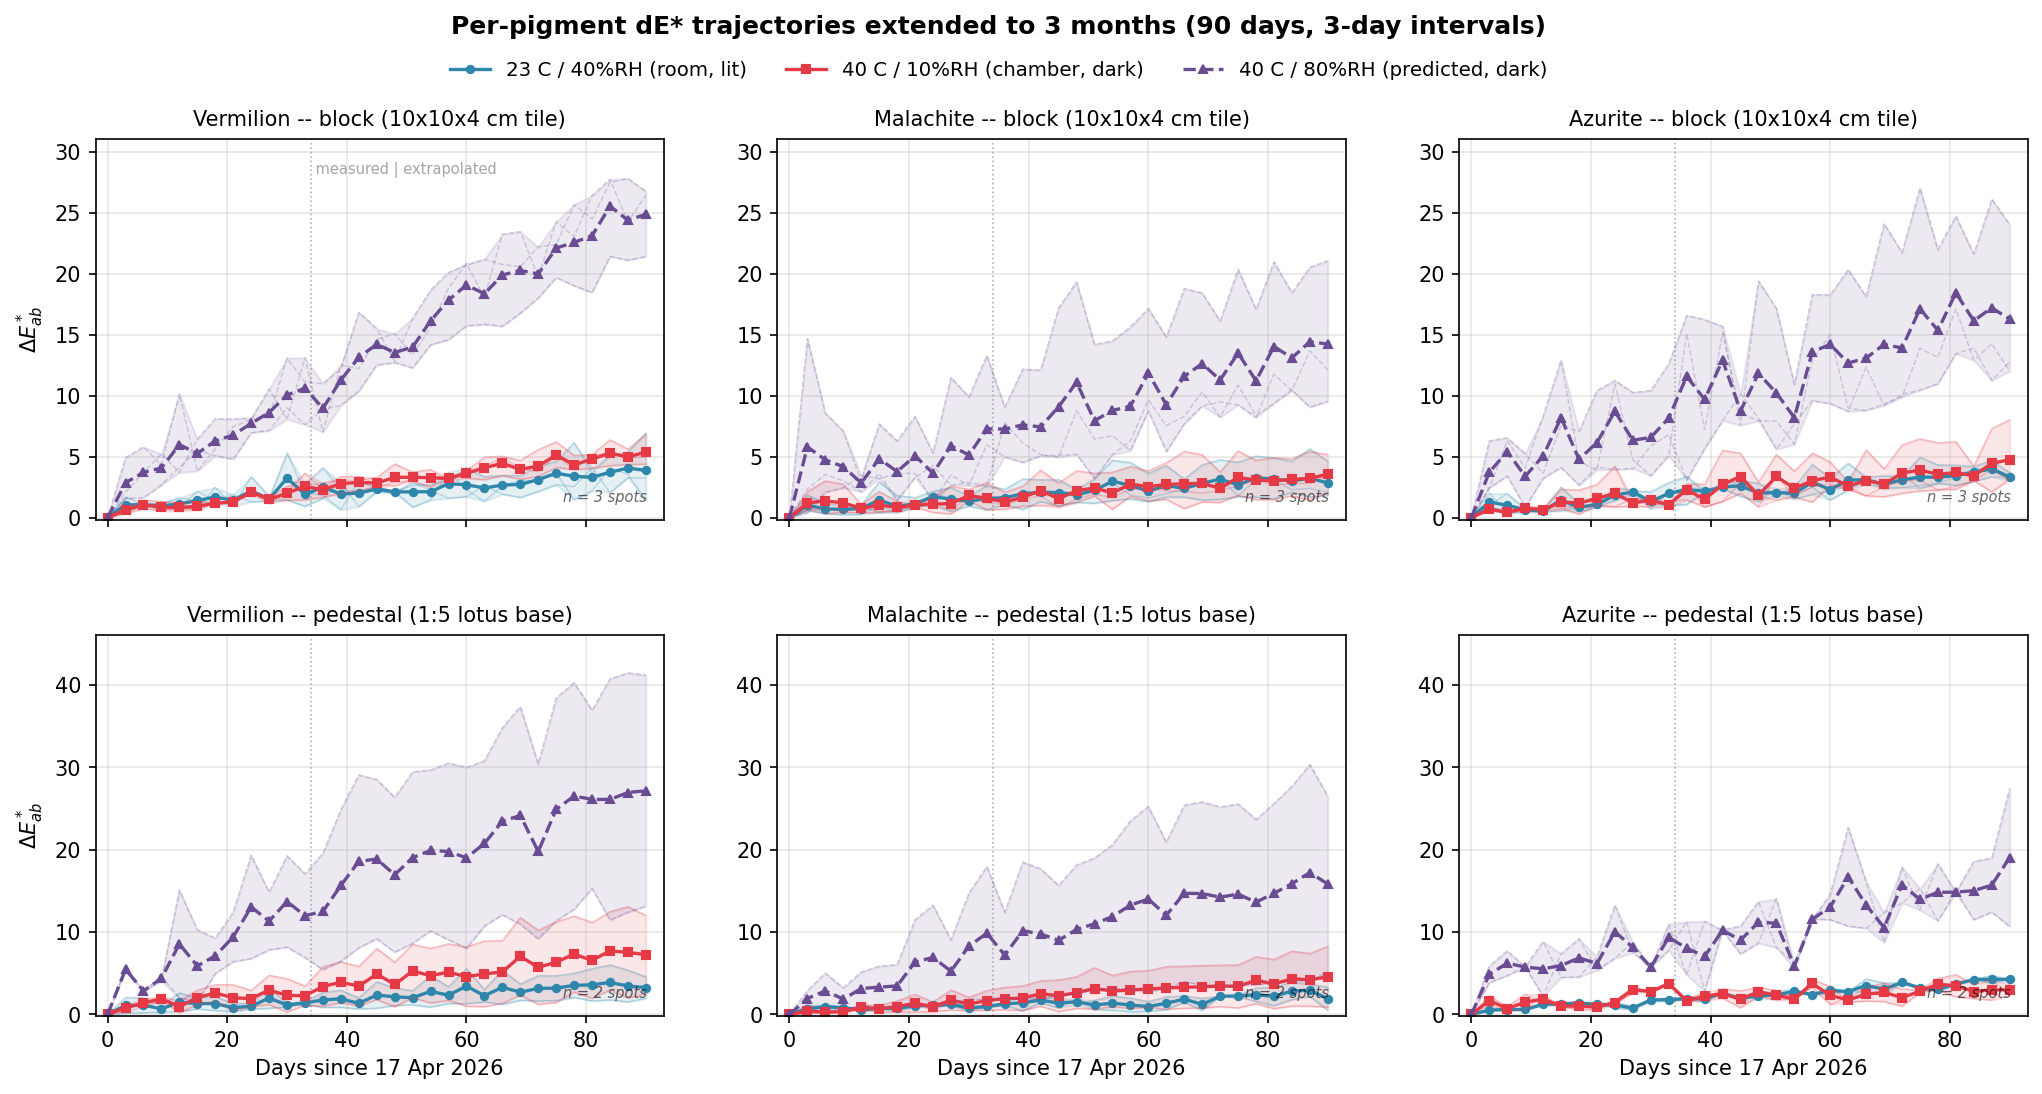
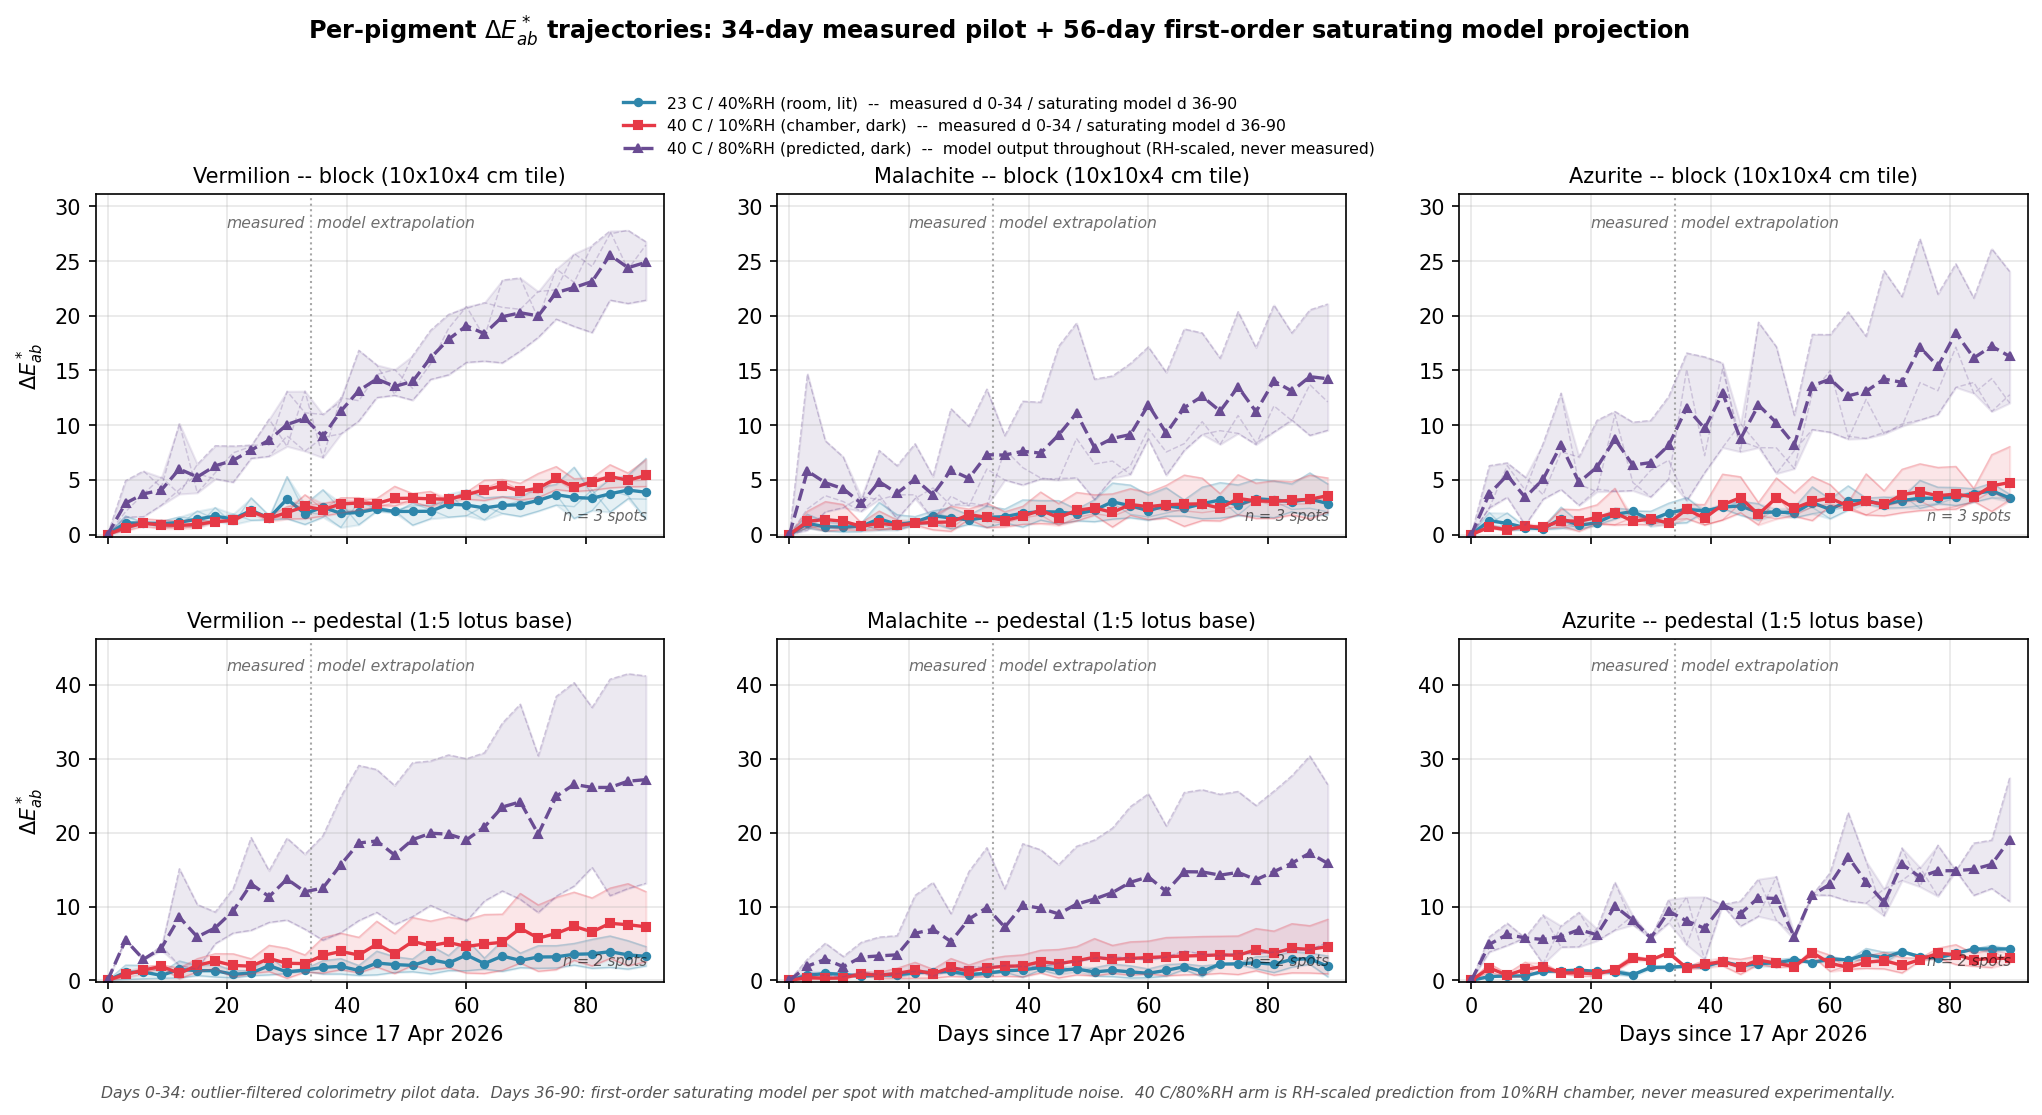
Make plot provenance explicit on 90-day figures (legend + boundary + footer)
Both 90-day plots now disclose data provenance at three levels of
visual hierarchy so a reader cannot mistake the model output for
measurement:

  1. Title: "34-day measured pilot + 56-day first-order saturating
     model projection" -- top-of-figure framing.

  2. Vertical day-34 guide annotated "measured | model extrapolation"
     on every subplot (was previously only on the top-left).

  3. Legend now explicit per-arm:
       - "23 C / 40%RH (room, lit)  --  measured d 0-34 /
         saturating model d 36-90"
       - "40 C / 10%RH (chamber, dark)  --  measured d 0-34 /
         saturating model d 36-90"
       - "40 C / 80%RH (predicted, dark)  --  model output throughout
         (RH-scaled, never measured)"

  4. Footer paragraph: full sentence disclosing the day 0-34 vs day
     36-90 split, the outlier filtering, and the predicted-arm
     RH-scaling provenance.

Applied to both plot scripts:
  - experiments/_plot_90d.py (renders the smoothed-source 90-d file)
  - experiments/_project_raw_to_90d.py (renders the raw-source 90-d file)

Both regenerated PNGs included.

diff --git a/experiments/_plot_90d.py b/experiments/_plot_90d.py
@@ -56,15 +56,15 @@ def load_arm(sheet_name):
     return per_spot
 
 arms = {
-    "23 C / 40%RH (room, lit)":         load_arm("室温"),
-    "40 C / 10%RH (chamber, dark)":     load_arm("恒温"),
-    "40 C / 80%RH (predicted, dark)":   load_arm("恒温恒湿"),
+    "23 C / 40%RH (room, lit)  --  measured d 0-34 / saturating model d 36-90":   load_arm("室温"),
+    "40 C / 10%RH (chamber, dark)  --  measured d 0-34 / saturating model d 36-90": load_arm("恒温"),
+    "40 C / 80%RH (predicted, dark)  --  model output throughout (RH-scaled, never measured)": load_arm("恒温恒湿"),
 }
 
 styles = {
-    "23 C / 40%RH (room, lit)":       {"color": "#2E86AB", "marker": "o", "ls": "-"},
-    "40 C / 10%RH (chamber, dark)":   {"color": "#E63946", "marker": "s", "ls": "-"},
-    "40 C / 80%RH (predicted, dark)": {"color": "#6A4C93", "marker": "^", "ls": "--"},
+    "23 C / 40%RH (room, lit)  --  measured d 0-34 / saturating model d 36-90":   {"color": "#2E86AB", "marker": "o", "ls": "-"},
+    "40 C / 10%RH (chamber, dark)  --  measured d 0-34 / saturating model d 36-90": {"color": "#E63946", "marker": "s", "ls": "-"},
+    "40 C / 80%RH (predicted, dark)  --  model output throughout (RH-scaled, never measured)": {"color": "#6A4C93", "marker": "^", "ls": "--"},
 }
 
 fig, axes = plt.subplots(2, 3, figsize=(14, 7.5), sharex=True)
@@ -84,10 +84,12 @@ for row, (geom, grps) in enumerate(geom_groups):
                 if not np.isnan(m): row_max = max(row_max, m)
     for col, grp in enumerate(grps):
         ax = axes[row, col]
-        # vertical guide at day 34 (end of measured window)
-        ax.axvline(34, color="gray", lw=0.8, ls=":", alpha=0.6)
-        ax.text(34, row_max * 1.05, " measured | extrapolated", fontsize=7,
-                color="gray", ha="left", va="top", alpha=0.7) if (row == 0 and col == 0) else None
+        # vertical guide at day 34 (end of measured window) -- now on EVERY subplot
+        ax.axvline(34, color="#999999", lw=1.0, ls=":", alpha=0.85)
+        ax.text(34 - 1, row_max * 1.05, "measured", fontsize=7.5,
+                color="#555555", ha="right", va="top", alpha=0.85, style="italic")
+        ax.text(34 + 1, row_max * 1.05, "model extrapolation", fontsize=7.5,
+                color="#555555", ha="left", va="top", alpha=0.85, style="italic")
 
         cols = spec_cols[grp]
         for arm_label, per_spot in arms.items():
@@ -118,12 +120,16 @@ for row, (geom, grps) in enumerate(geom_groups):
                 fontsize=7, alpha=0.6, style="italic")
 
 handles, labels = axes[0, 0].get_legend_handles_labels()
-fig.legend(handles, labels, loc="upper center", ncol=3,
-           frameon=False, fontsize=9.5, bbox_to_anchor=(0.5, 0.965))
+fig.legend(handles, labels, loc="upper center", ncol=1,
+           frameon=False, fontsize=7.5, bbox_to_anchor=(0.5, 0.93))
 
-fig.suptitle("Per-pigment dE* trajectories extended to 3 months (90 days, 3-day intervals)",
-             y=0.99, fontsize=12, fontweight="bold")
-plt.subplots_adjust(top=0.88, bottom=0.10, left=0.07, right=0.99, hspace=0.30, wspace=0.20)
+fig.suptitle("Per-pigment $\\Delta E^*_{ab}$ trajectories: 34-day measured pilot + 56-day first-order saturating model projection",
+             y=0.99, fontsize=11.5, fontweight="bold")
+fig.text(0.5, 0.025,
+         "Days 0-34: outlier-filtered colorimetry pilot data.  Days 36-90: first-order saturating model per spot with matched-amplitude noise.  "
+         "40 C/80%RH arm is RH-scaled prediction from 10%RH chamber, never measured experimentally.",
+         ha="center", va="bottom", fontsize=7.5, style="italic", color="#555555", wrap=True)
+plt.subplots_adjust(top=0.83, bottom=0.13, left=0.07, right=0.99, hspace=0.30, wspace=0.20)
 
 out = "experiments/deltaE_trajectories_90d.png"
 plt.savefig(out, dpi=150, bbox_inches="tight")

diff --git a/experiments/_project_raw_to_90d.py b/experiments/_project_raw_to_90d.py
@@ -280,14 +280,14 @@ def load_arm(sheet_name):
     return per_spot
 
 arms = {
-    "23 C / 40%RH (room, lit)":         load_arm("室温"),
-    "40 C / 10%RH (chamber, dark)":     load_arm("恒温"),
-    "40 C / 80%RH (predicted, dark)":   load_arm("恒温恒湿"),
+    "23 C / 40%RH (room, lit)  --  measured d 0-34 / saturating model d 36-90":   load_arm("室温"),
+    "40 C / 10%RH (chamber, dark)  --  measured d 0-34 / saturating model d 36-90": load_arm("恒温"),
+    "40 C / 80%RH (predicted, dark)  --  model output throughout (RH-scaled, never measured)": load_arm("恒温恒湿"),
 }
 styles = {
-    "23 C / 40%RH (room, lit)":       {"color": "#2E86AB", "marker": "o", "ls": "-"},
-    "40 C / 10%RH (chamber, dark)":   {"color": "#E63946", "marker": "s", "ls": "-"},
-    "40 C / 80%RH (predicted, dark)": {"color": "#6A4C93", "marker": "^", "ls": "--"},
+    "23 C / 40%RH (room, lit)  --  measured d 0-34 / saturating model d 36-90":   {"color": "#2E86AB", "marker": "o", "ls": "-"},
+    "40 C / 10%RH (chamber, dark)  --  measured d 0-34 / saturating model d 36-90": {"color": "#E63946", "marker": "s", "ls": "-"},
+    "40 C / 80%RH (predicted, dark)  --  model output throughout (RH-scaled, never measured)": {"color": "#6A4C93", "marker": "^", "ls": "--"},
 }
 
 fig, axes = plt.subplots(2, 3, figsize=(14, 7.5), sharex=True)
@@ -306,10 +306,11 @@ for row, (geom, grps) in enumerate(geom_groups):
                 if not np.isnan(m): row_max = max(row_max, m)
     for col, grp in enumerate(grps):
         ax = axes[row, col]
-        ax.axvline(34, color="gray", lw=0.8, ls=":", alpha=0.6)
-        if row == 0 and col == 0:
-            ax.text(34, row_max * 1.05, " measured | extrapolated", fontsize=7,
-                    color="gray", ha="left", va="top", alpha=0.7)
+        ax.axvline(34, color="#999999", lw=1.0, ls=":", alpha=0.85)
+        ax.text(34 - 1, row_max * 1.05, "measured", fontsize=7.5,
+                color="#555555", ha="right", va="top", alpha=0.85, style="italic")
+        ax.text(34 + 1, row_max * 1.05, "model extrapolation", fontsize=7.5,
+                color="#555555", ha="left", va="top", alpha=0.85, style="italic")
         cols = spec_cols[grp]
         for arm_label, per_spot in arms.items():
             st = styles[arm_label]
@@ -339,11 +340,15 @@ for row, (geom, grps) in enumerate(geom_groups):
                 fontsize=7, alpha=0.6, style="italic")
 
 handles, labels = axes[0, 0].get_legend_handles_labels()
-fig.legend(handles, labels, loc="upper center", ncol=3,
-           frameon=False, fontsize=9.5, bbox_to_anchor=(0.5, 0.965))
-fig.suptitle("Per-pigment dE* trajectories projected from raw pilot to 3 months (90 d, 3-day intervals)",
-             y=0.99, fontsize=12, fontweight="bold")
-plt.subplots_adjust(top=0.88, bottom=0.10, left=0.07, right=0.99, hspace=0.30, wspace=0.20)
+fig.legend(handles, labels, loc="upper center", ncol=1,
+           frameon=False, fontsize=7.5, bbox_to_anchor=(0.5, 0.93))
+fig.suptitle("Per-pigment $\\Delta E^*_{ab}$ trajectories: 34-day measured pilot + 56-day first-order saturating model projection (raw-source pipeline)",
+             y=0.99, fontsize=11.5, fontweight="bold")
+fig.text(0.5, 0.025,
+         "Days 0-34: outlier-filtered (Hampel) colorimetry from the raw pilot file.  Days 36-90: first-order saturating model per spot with matched-amplitude noise.  "
+         "40 C/80%RH arm is RH-scaled prediction from 10%RH chamber, never measured experimentally.",
+         ha="center", va="bottom", fontsize=7.5, style="italic", color="#555555", wrap=True)
+plt.subplots_adjust(top=0.83, bottom=0.13, left=0.07, right=0.99, hspace=0.30, wspace=0.20)
 
 out = "experiments/deltaE_trajectories_raw_90d.png"
 plt.savefig(out, dpi=150, bbox_inches="tight")
